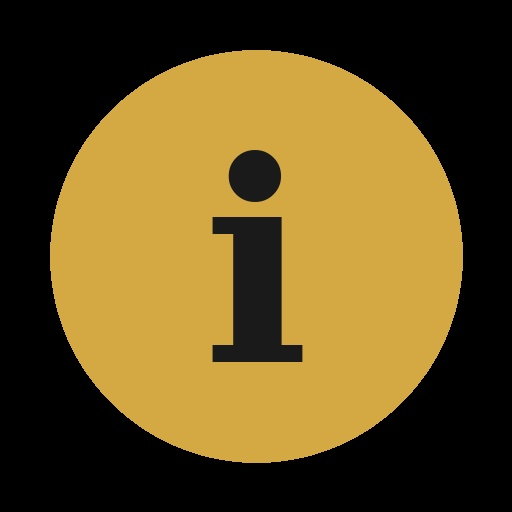
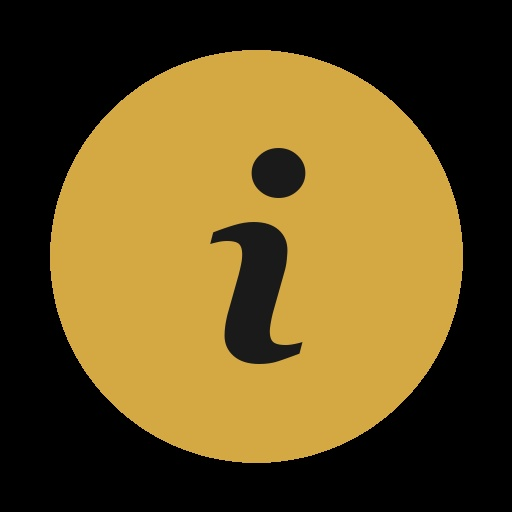
SEO assets, privacy page, exhibit tier fix, info tile regeneration

Changed region(s): [[0.4062, 0.2812, 0.5938, 0.7188]]

diff --git a/templates/index.html b/templates/index.html
@@ -3,7 +3,25 @@
 <head>
   <meta charset="UTF-8" />
   <meta name="viewport" content="width=device-width, initial-scale=1.0" />
-  <title>The Last Gallery</title>
+  <title>The Last Gallery - Add Your Art for Free, Make History!</title>
+
+  <!-- SEO & social sharing -->
+  <meta name="description" content="A shuffling art gallery, giving every artist fair exposure. When the gallery is full, all artwork freezes in place — becoming a time capsule of artwork.">
+  <link rel="canonical" href="https://thelastgallery.com/">
+  <meta property="og:type" content="website">
+  <meta property="og:title" content="The Last Gallery">
+  <meta property="og:description" content="A shuffling art gallery, giving every artist fair exposure. When the gallery is full, all artwork freezes in place — becoming a time capsule of artwork.">
+  <meta property="og:url" content="https://thelastgallery.com/">
+  <meta property="og:image" content="https://thelastgallery.com/static/images/og_share_image.png">
+  <meta property="og:image:alt" content="The Last Gallery — a shuffling art gallery and time capsule of artwork">
+  <meta name="twitter:card" content="summary_large_image">
+  <meta name="twitter:title" content="The Last Gallery">
+  <meta name="twitter:description" content="A shuffling art gallery, giving every artist fair exposure. When the gallery is full, all artwork freezes in place — becoming a time capsule of artwork.">
+  <meta name="twitter:image" content="https://thelastgallery.com/static/images/og_share_image.png">
+
+  <!-- Favicon -->
+  <link rel="icon" href="{{ url_for('static', filename='favicon.ico') }}" sizes="any">
+  <link rel="apple-touch-icon" href="{{ url_for('static', filename='apple-touch-icon.png') }}">
 
   <!-- Main stylesheet -->
   <link rel="stylesheet" href="{{ url_for('static', filename='css/styles.css') | cachebust }}">
@@ -61,6 +79,9 @@
           </li>
           <li role="none">
             <button id="menu-item-admin" role="menuitem">Admin</button>
+          </li>
+          <li role="none">
+            <a href="/privacy" role="menuitem" class="menu-link">Your Privacy</a>
           </li>
         </ul>
       </div>
@@ -304,7 +325,7 @@
             type="password"
             inputmode="numeric"
             autocomplete="one-time-code"
-            maxlength="4"
+            maxlength="5"
             aria-label="Admin PIN"
           >
           <button id="adminPinSubmit" type="button">Unlock</button>
@@ -440,7 +461,7 @@
         <div class="countdown-info-graphic"><img id="humanCentricGraphic" src="{{ url_for('static', filename='images/artist_group.png') }}" alt="A Human Centric Gallery"></div>
         <p>Whether it's painting, drawing, photography, collage, digital (Procreate, Krita, etc.), or mixed media, The Last Gallery honors human touch in the creative process. A brushstroke, a blended pixel, a carefully framed photograph&mdash;these are the marks of an artist at work.</p>
         <p>We believe AI can be used as a tool. You might use it in a collage, or as a reference&mdash;just as artists have long used photographs. That's fine. What matters is that a human is physically involved in shaping the final image.</p>
-        <p>The Last Gallery reserves the right to remove raw, unedited AI-generated images, or any other content deemed inappropriate from the gallery wall.</p>
+        <p>The Last Gallery reserves the right to remove raw, unedited AI-generated images, or any other content deemed inappropriate or low-effort, from the gallery wall.</p>
       </div>
     </div>
   </div>
@@ -526,8 +547,8 @@
               </div>
             </div>
             <div class="pricing-col">
-              <div class="pricing-col-header">Exhibit</div>
-              <div class="pricing-col-req">Must be unlocked **</div>
+              <div class="pricing-col-header">Exhibit Tile</div>
+              <div class="pricing-col-req">Existing Medium or larger ***</div>
               <div class="pricing-col-desc">A dedicated space to showcase your portfolio</div>
               <div class="pricing-col-price-wrap">
                 <div class="pricing-col-price">$199.99</div>
@@ -539,6 +560,7 @@
         <div class="pricing-footnotes">
           <p>* Smaller size categories contain more tiles, giving higher odds of landing in them.</p>
           <p>** Artwork must be unlocked and currently occupying the larger tile size (after a shuffle) to purchase that upgrade. After landing in a larger tile, you only have 1 week (until the next shuffle) to decide to upgrade.</p>
+          <p>*** Exhibits are created from an existing Medium or larger tile. They showcase the artist and up to 20 pieces of artwork. Although the exhibit tile image itself is not removable, all other exhibit images are.</p>
         </div>
         <div class="pricing-policies">
           <p>All purchases are one-time payments. Prices may increase as the gallery fills.</p>
@@ -603,16 +625,16 @@
   <div id="adminDebugFooter" class="admin-debug-footer" style="display: none;"></div>
 
   <!-- JS -->
-  <script src="{{ url_for('static', filename='js/main.js') | cachebust }}"></script>
-  <script src="{{ url_for('static', filename='js/admin.js') | cachebust }}"></script>
-  <script src="{{ url_for('static', filename='js/countdown.js') | cachebust }}"></script>
-  <script src="{{ url_for('static', filename='js/unlock_modal.js') | cachebust }}"></script>
-  <script src="{{ url_for('static', filename='js/success_banner.js') | cachebust }}"></script>
-  <script src="{{ url_for('static', filename='js/deadline_banner.js') | cachebust }}"></script>
-  <script src="{{ url_for('static', filename='js/exhibit.js') | cachebust }}"></script>
-  <script src="{{ url_for('static', filename='js/exhibit_dashboard.js') | cachebust }}"></script>
-  <script src="{{ url_for('static', filename='js/owner_edit.js') | cachebust }}"></script>
-  <script src="{{ url_for('static', filename='vendor/cropper/cropper.min.js') | cachebust }}"></script>
-  <script src="{{ url_for('static', filename='js/upload_modal.js') | cachebust }}"></script>
+  <script defer src="{{ url_for('static', filename='js/main.js') | cachebust }}"></script>
+  <script defer src="{{ url_for('static', filename='js/admin.js') | cachebust }}"></script>
+  <script defer src="{{ url_for('static', filename='js/countdown.js') | cachebust }}"></script>
+  <script defer src="{{ url_for('static', filename='js/unlock_modal.js') | cachebust }}"></script>
+  <script defer src="{{ url_for('static', filename='js/success_banner.js') | cachebust }}"></script>
+  <script defer src="{{ url_for('static', filename='js/deadline_banner.js') | cachebust }}"></script>
+  <script defer src="{{ url_for('static', filename='js/exhibit.js') | cachebust }}"></script>
+  <script defer src="{{ url_for('static', filename='js/exhibit_dashboard.js') | cachebust }}"></script>
+  <script defer src="{{ url_for('static', filename='js/owner_edit.js') | cachebust }}"></script>
+  <script defer src="{{ url_for('static', filename='vendor/cropper/cropper.min.js') | cachebust }}"></script>
+  <script defer src="{{ url_for('static', filename='js/upload_modal.js') | cachebust }}"></script>
 </body>
 </html>

diff --git a/templates/privacy.html b/templates/privacy.html
@@ -1,0 +1,117 @@
+<!DOCTYPE html>
+<html lang="en">
+<head>
+  <meta charset="UTF-8">
+  <meta name="viewport" content="width=device-width, initial-scale=1.0">
+  <title>Privacy Policy - The Last Gallery</title>
+  <link rel="icon" href="/static/favicon.ico" sizes="any">
+  <style>
+    * { margin: 0; padding: 0; box-sizing: border-box; }
+    body {
+      background: #0a0a0a;
+      color: #d0d0d0;
+      font-family: Georgia, 'Times New Roman', serif;
+      line-height: 1.7;
+      padding: 40px 20px;
+      max-width: 720px;
+      margin: 0 auto;
+    }
+    a { color: #D4A843; }
+    h1 {
+      color: #fff;
+      font-size: 1.8rem;
+      margin-bottom: 8px;
+    }
+    .effective {
+      color: #888;
+      font-size: 0.85rem;
+      margin-bottom: 36px;
+    }
+    h2 {
+      color: #fff;
+      font-size: 1.15rem;
+      margin-top: 32px;
+      margin-bottom: 10px;
+    }
+    p, li {
+      margin-bottom: 12px;
+      font-size: 0.95rem;
+    }
+    ul {
+      padding-left: 24px;
+      margin-bottom: 12px;
+    }
+    .back-link {
+      display: inline-block;
+      margin-bottom: 24px;
+      font-size: 0.9rem;
+    }
+  </style>
+</head>
+<body>
+  <a href="/" class="back-link">&larr; Back to The Last Gallery</a>
+
+  <h1>Privacy Policy</h1>
+  <p class="effective">Effective March 19, 2026</p>
+
+  <p>The Last Gallery ("we," "us," "our") respects your privacy. This policy explains what information we collect, how we use it, and your choices.</p>
+
+  <h2>What We Collect</h2>
+  <p>When you upload artwork or make a purchase, we collect:</p>
+  <ul>
+    <li><strong>Email address</strong> — used to send your edit code and purchase confirmations</li>
+    <li><strong>Artist name and artwork metadata</strong> — title, year, medium, dimensions, edition info, sale preferences, and optional contact information you choose to provide</li>
+    <li><strong>Payment information</strong> — processed securely by <a href="https://stripe.com/privacy" target="_blank" rel="noopener">Stripe</a>. We never see or store your card details. We retain the Stripe transaction ID for our records.</li>
+  </ul>
+
+  <h2>What We Don't Collect</h2>
+  <ul>
+    <li>We don't use cookies</li>
+    <li>We don't use analytics or tracking services</li>
+    <li>We don't log or store your IP address</li>
+    <li>We don't collect passwords — there are no user accounts</li>
+    <li>We don't sell, share, or trade your personal information</li>
+  </ul>
+
+  <h2>How We Use Your Information</h2>
+  <ul>
+    <li><strong>Email</strong> — to deliver your edit code, purchase confirmations, and shuffle notifications related to your artwork. We use <a href="https://resend.com/legal/privacy-policy" target="_blank" rel="noopener">Resend</a> to send emails.</li>
+    <li><strong>Artist name and metadata</strong> — displayed publicly on the gallery wall alongside your artwork, as you submitted it</li>
+    <li><strong>Payment records</strong> — kept as an audit trail for completed transactions</li>
+  </ul>
+
+  <h2>Data Storage and Retention</h2>
+  <p>Your artwork and associated metadata are intended to remain on the gallery permanently — the gallery is designed as a time capsule. Uploaded images are stored on our servers with randomized filenames.</p>
+  <p>If you upload additional artwork without purchasing an unlock within 24 hours, that artwork and its associated data are automatically removed.</p>
+
+  <h2>Local Storage</h2>
+  <p>We store your edit code in your browser's local storage so you don't have to re-enter it each visit. This data never leaves your device and can be cleared through your browser settings.</p>
+
+  <h2>Third-Party Services</h2>
+  <p>We use two third-party services:</p>
+  <ul>
+    <li><strong>Stripe</strong> — for payment processing (<a href="https://stripe.com/privacy" target="_blank" rel="noopener">Stripe Privacy Policy</a>)</li>
+    <li><strong>Resend</strong> — for transactional emails (<a href="https://resend.com/legal/privacy-policy" target="_blank" rel="noopener">Resend Privacy Policy</a>)</li>
+  </ul>
+  <p>We do not use advertising networks, social media trackers, or analytics services.</p>
+
+  <h2>Your Choices</h2>
+  <ul>
+    <li>All metadata fields beyond artist name and title are optional — share only what you're comfortable with</li>
+    <li>You can edit your artwork metadata at any time using your edit code</li>
+    <li>To request removal of your artwork or personal information, contact us at <a href="mailto:admin@thelastgallery.com">admin@thelastgallery.com</a></li>
+  </ul>
+
+  <h2>Children's Privacy</h2>
+  <p>The Last Gallery is not directed at children under 13. We do not knowingly collect information from children under 13. If you believe a child has submitted information, please contact us and we will remove it.</p>
+
+  <h2>Security</h2>
+  <p>We take reasonable measures to protect your information. Payments are handled entirely by Stripe's secure infrastructure. Administrative functions are protected by PIN authentication with rate limiting.</p>
+
+  <h2>Changes to This Policy</h2>
+  <p>If we make changes, we'll update the effective date at the top of this page.</p>
+
+  <h2>Contact</h2>
+  <p>Questions or concerns? Email <a href="mailto:admin@thelastgallery.com">admin@thelastgallery.com</a>.</p>
+</body>
+</html>

diff --git a/static/js/unlock_modal.js b/static/js/unlock_modal.js
@@ -72,7 +72,7 @@
             '<h2 class="unlock-modal-headline">Upgrade Your Artwork</h2>' +
             '<p class="unlock-modal-subtitle">Enter the edit code that was sent to<br>your email when you uploaded your artwork.</p>' +
             '<div class="unlock-modal-input-group">' +
-              '<label class="unlock-modal-label">Edit Code</label>' +
+              '<label class="unlock-modal-label">Upgrade / Edit Code</label>' +
               '<input type="text" class="unlock-modal-input" id="unlockCodeInput" maxlength="8" placeholder="8-character code" autocomplete="off" />' +
               '<div class="unlock-modal-inline-error hidden" id="unlockCodeError"></div>' +
             '</div>' +

diff --git a/static/css/styles.css b/static/css/styles.css
@@ -241,6 +241,20 @@ label {
   outline-offset: -2px;
 }
 
+#hamburger-menu .menu-link {
+  display: block;
+  padding: 10px 16px;
+  color: rgba(255,255,255,0.9);
+  font-size: 14px;
+  text-decoration: none;
+  cursor: pointer;
+  transition: background 0.12s ease;
+}
+
+#hamburger-menu .menu-link:hover {
+  background: rgba(255,255,255,0.1);
+}
+
 /* "Add Your Artwork" header button — gold accent */
 #addArtworkBtn {
   flex: 0 0 auto;
@@ -3878,6 +3892,7 @@ label {
   display: flex;
   align-items: center;
   justify-content: center;
+  text-align: center;
 }
 
 .pricing-col-req {

diff --git a/app.py b/app.py
@@ -19,6 +19,7 @@ from db import init_db, get_db
 load_dotenv()
 
 app = Flask(__name__, static_folder="static", static_url_path="/static")
+app.config['SEND_FILE_MAX_AGE_DEFAULT'] = 31536000  # 1-year cache for static files (cachebust ?v= handles invalidation)
 
 
 @app.template_filter('cachebust')
@@ -77,13 +78,13 @@ def _generate_info_tile_image():
     # Gold circle centered with padding
     pad = 50
     draw.ellipse([pad, pad, size - pad, size - pad], fill="#D4A843")
-    # Draw "i" in center — try serif bold italic, fall back gracefully
+    # Draw "i" in center — Georgia italic to match countdown info icon
     font_size = 280
     try:
-        font = ImageFont.truetype("/usr/share/fonts/truetype/dejavu/DejaVuSerif-BoldItalic.ttf", font_size)
+        font = ImageFont.truetype("/usr/share/fonts/chromeos/monotype/georgiaz.ttf", font_size)
     except (OSError, IOError):
         try:
-            font = ImageFont.truetype("/usr/share/fonts/truetype/dejavu/DejaVuSerif-Bold.ttf", font_size)
+            font = ImageFont.truetype("/usr/share/fonts/truetype/dejavu/DejaVuSerif-BoldItalic.ttf", font_size)
         except (OSError, IOError):
             font = ImageFont.load_default()
     bbox = draw.textbbox((0, 0), "i", font=font)
@@ -776,6 +777,24 @@ def send_deadline_notification(email, artwork_title, asset_id, access_code=''):
         app.logger.info("[DEADLINE NOTIFY] Email sent to %s for asset %s", email, asset_id)
     except Exception:
         app.logger.exception("[DEADLINE NOTIFY] Failed to send email to %s for asset %s", email, asset_id)
+
+
+# ---- Static root files (SEO) ----
+@app.route("/robots.txt")
+def robots_txt():
+    return send_from_directory(app.static_folder, "robots.txt")
+
+@app.route("/sitemap.xml")
+def sitemap_xml():
+    return send_from_directory(app.static_folder, "sitemap.xml")
+
+@app.route("/favicon.ico")
+def favicon():
+    return send_from_directory(app.static_folder, "favicon.ico")
+
+@app.route("/privacy")
+def privacy():
+    return render_template("privacy.html")
 
 
 # ---- Routes ----

diff --git a/CLAUDE.md b/CLAUDE.md
@@ -40,6 +40,7 @@ python app.py
 | `static/js/upload_modal.js` | Image upload flow with cropping and metadata entry |
 | `static/js/deadline_banner.js` | 24-hour unlock deadline banner shown after 2nd+ uploads |
 | `templates/index.html` | Main HTML template |
+| `templates/privacy.html` | Privacy policy page (standalone, self-styled) |
 | `static/css/styles.css` | All styling including popup animations |
 | `static/grid_full.svg` | SVG defining tile positions and sizes |
 
@@ -162,6 +163,7 @@ Tiles are classified by size and numbered sequentially:
 | `/` | GET | Main gallery page |
 | `/edit` | GET | Gallery page in edit mode — auto-opens edit banner, skips welcome |
 | `/creator-of-the-month` | GET | Gallery page with Creator of the Month coming-soon banner |
+| `/privacy` | GET | Privacy policy page |
 | `/api/wall_state` | GET | Get all tile assignments from database |
 | `/api/countdown_state` | GET | Get countdown timer state (with server-side auto-transitions) |
 | `/uploads/<filename>` | GET | Serve uploaded images (1-year immutable cache) |
@@ -363,12 +365,13 @@ window.dismissDeadlineBanner()     // Dismiss deadline banner (from deadline_ban
 
 ## Hamburger Menu
 Menu items in order:
-1. **Unlock to Upgrade Your Artwork!** — opens upgrade modal (3-step flow)
-2. **Edit Your Artwork or Exhibit** — opens edit banner
-3. **How it All Works** — opens info modal explaining the upload → unlock → shuffle → upgrade cycle
-4. **Upgrade Pricing** — opens pricing modal with tier comparison columns and "Upgrade Now" CTA
-5. **A Human Centric Gallery** — opens info modal (see below)
+1. **How it All Works** — opens info modal explaining the upload → unlock → shuffle → upgrade cycle
+2. **Upgrade Pricing** — opens pricing modal with tier comparison columns and "Upgrade Now" CTA
+3. **Unlock to Upgrade Your Artwork!** — opens upgrade modal (3-step flow)
+4. **A Human Centric Gallery** — opens info modal (see below)
+5. **Edit Your Artwork or Exhibit** — opens edit banner
 6. **Admin** — opens admin modal (PIN gated)
+7. **Your Privacy** — links to `/privacy` page
 
 ## Upgrade Modal (unlock_modal.js)
 Three-step purchase flow using edit codes for identity ("lock what you landed on" model):
@@ -417,6 +420,21 @@ Top-tier artist feature ($199.99). An exhibit tile is an easily identifiable til
 - **Gold accent system**: All modals (upload, metadata, confirmation, countdown info) share a consistent gold gradient accent bar (`#b8860b → #ffd700`) at the top, gold gradient primary buttons, and outlined secondary buttons
 - **"Add Your Art" button**: Gold-bordered outline button in the header
 - **"Submission Guidelines" button**: Link in the upload modal that opens the Human Centric Gallery overlay
+
+## SEO & Metadata
+- **Meta description**: Present in `<head>` of `index.html` — also used for Open Graph and Twitter card tags
+- **Open Graph image**: `static/images/og_share_image.png` (1200x630, logo + title on black background) — controls link previews on social media, iMessage, Discord, etc.
+- **Favicon**: `static/favicon.ico` (multi-size: 16/32/48px), `static/apple-touch-icon.png` (180px), `static/icon-192.png`, `static/icon-512.png`
+- **robots.txt**: Served at `/robots.txt` — allows crawling, blocks `/api/` and `/uploads/`
+- **sitemap.xml**: Served at `/sitemap.xml` — single entry for homepage
+- **Canonical URL**: `https://thelastgallery.com/`
+
+## Info Tiles
+- 3 info-type assets seeded on startup via `_seed_info_tiles()` in `app.py`, assigned to random S tiles
+- Tile image generated by `_generate_info_tile_image()`: 512x512 black background, gold circle, Georgia Bold Italic "i" — matching the countdown info icon font
+- Image stored at `static/images/info_tile.jpg`, only generated if missing
+- Clicking an info tile opens the "How It Works" modal instead of artwork popup
+- Info tiles are excluded from shuffle, cleanup, and abandonment logic
 
 ## Notes
 - Undo history is in-memory (resets on server restart)
@@ -508,7 +526,7 @@ systemctl --user status cleanup-expired.timer
 - When making significant changes, append a dated entry to `CHANGELOG.md`
 - Keep this file (`CLAUDE.md`) updated to reflect current state, not history
 - `CLAUDE_URL.txt` in project root contains a raw GitHub URL pinned to the latest commit hash that changed `CLAUDE.md` — auto-generated by the post-commit hook
-- Last reviewed: 2026-03-08
+- Last reviewed: 2026-03-19
 
 ---
 
